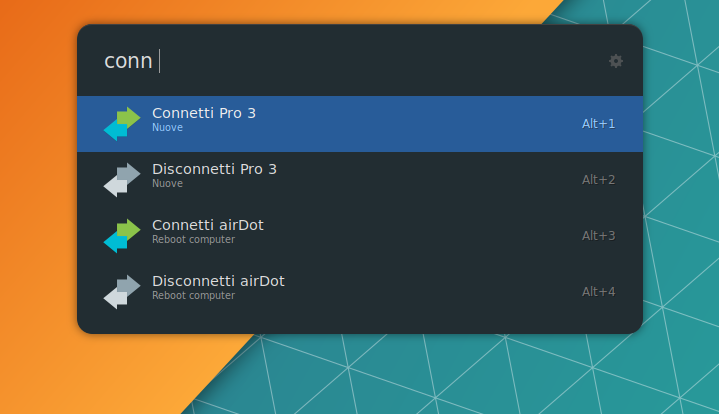
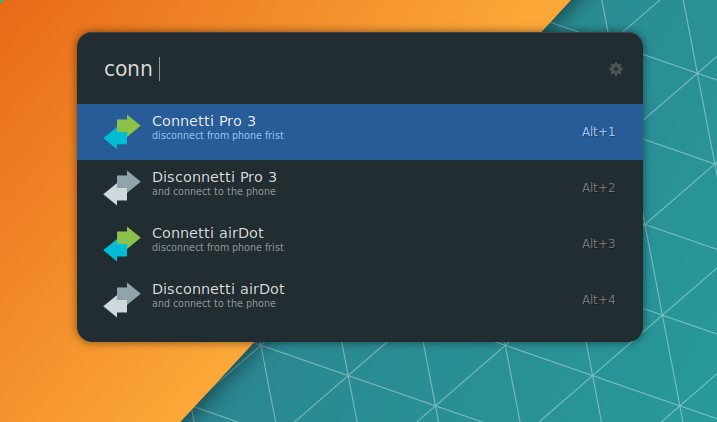
Desc

diff --git a/main.py b/main.py
@@ -31,28 +31,28 @@ class KeywordQueryEventListener(EventListener):
 def airDot():
     return ExtensionResultItem(icon='images/on.png',
                                name='Connetti airDot',
-                               description='Reboot computer',
+                               description='disconnect from phone frist',
                                on_enter=RunScriptAction("bt on air", None))
 
 
 def XairDot():
     return ExtensionResultItem(icon='images/off.png',
                                name='Disconnetti airDot',
-                               description='Reboot computer',
+                               description='and connect to the phone',
                                on_enter=RunScriptAction("bt off air", None))
 
 
 def Pro3Lite():
     return ExtensionResultItem(icon='images/on.png',
                                name='Connetti Pro 3',
-                               description='Nuove',
+                               description='disconnect from phone frist',
                                on_enter=RunScriptAction("bt on red", None))
 
 
 def XPro3Lite():
     return ExtensionResultItem(icon='images/off.png',
                                name='Disconnetti Pro 3',
-                               description='Nuove',
+                               description='and connect to the phone',
                                on_enter=RunScriptAction("bt off red", None))
 
 
